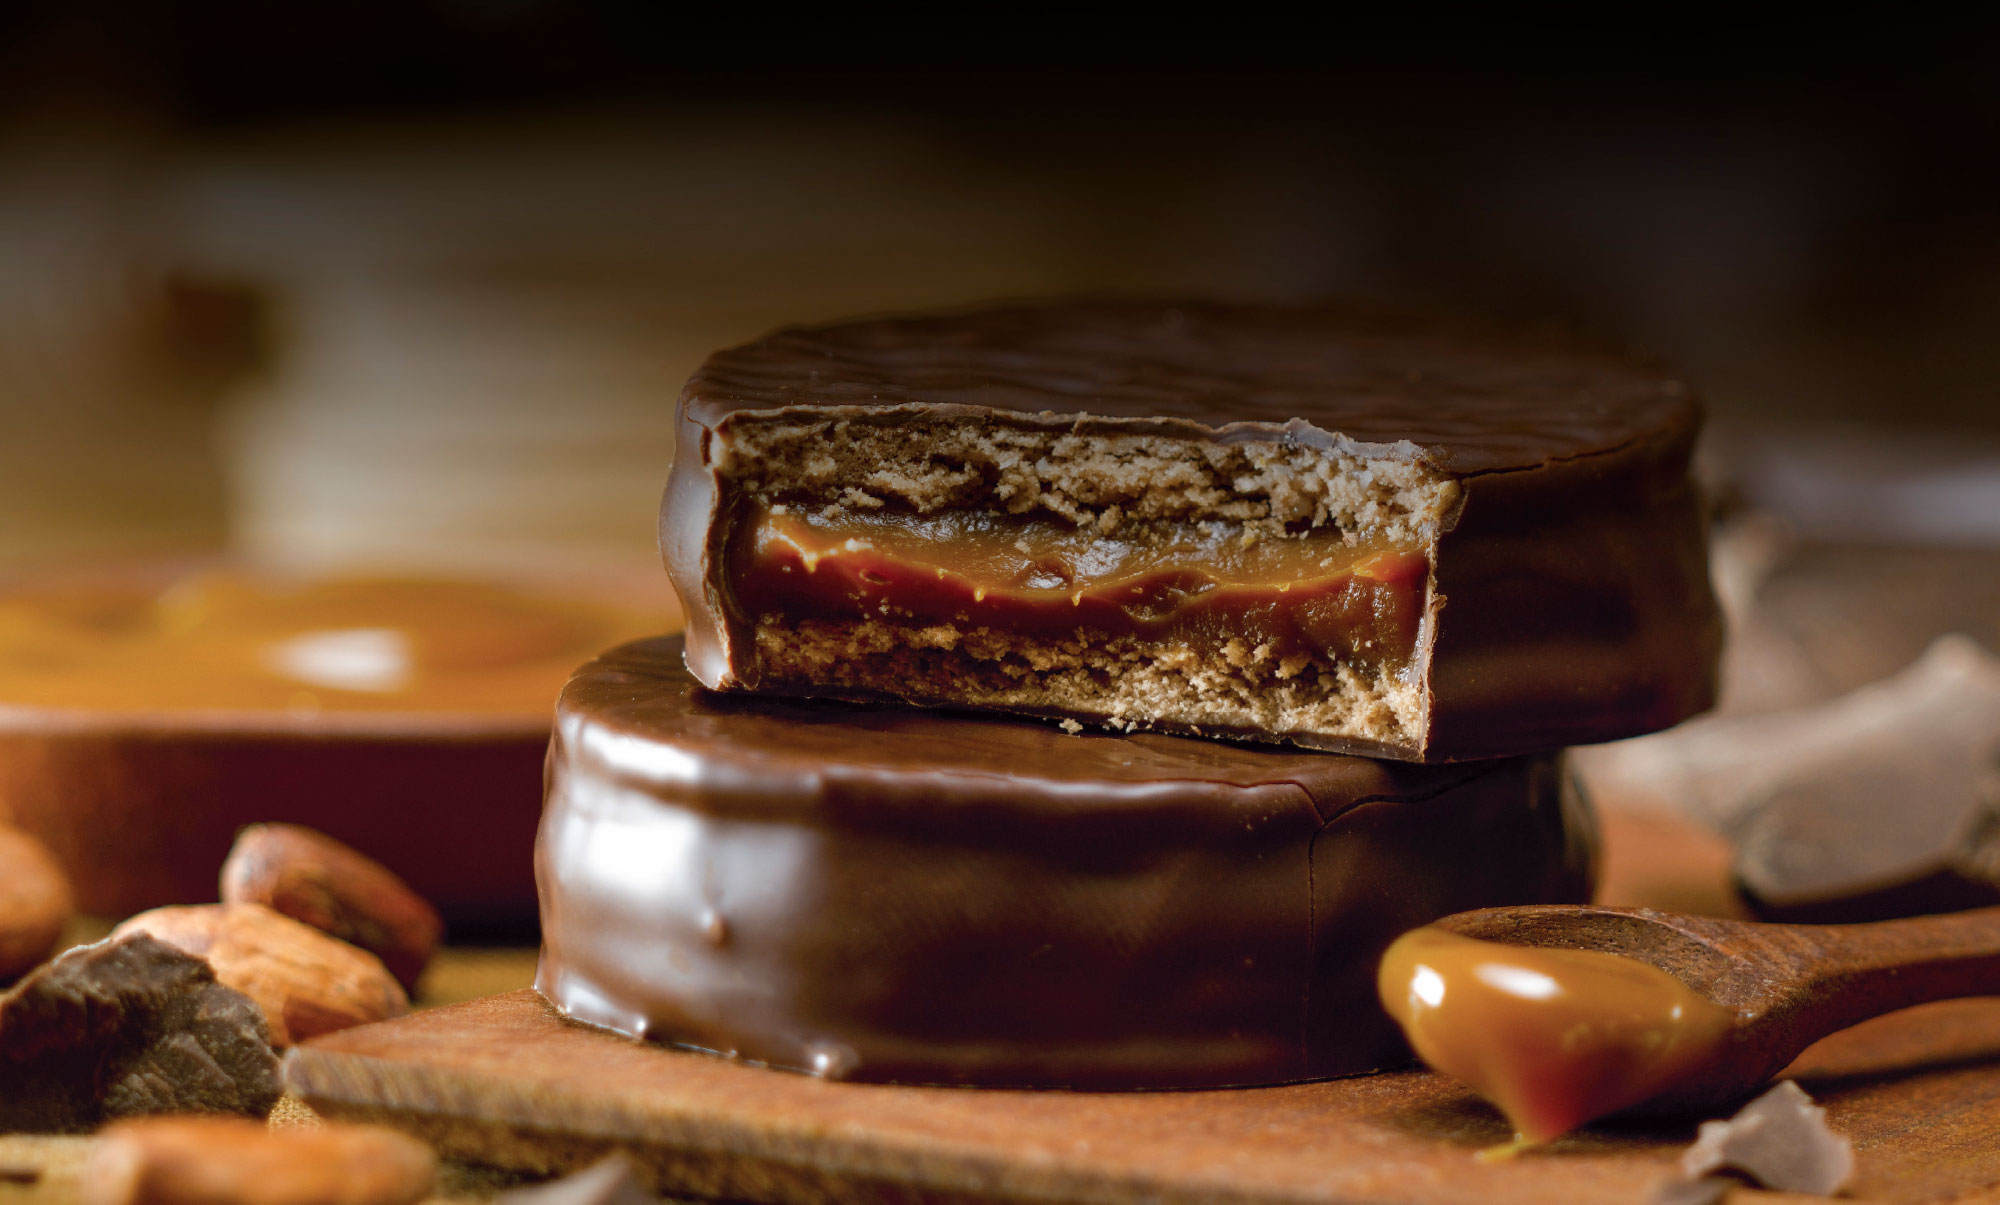
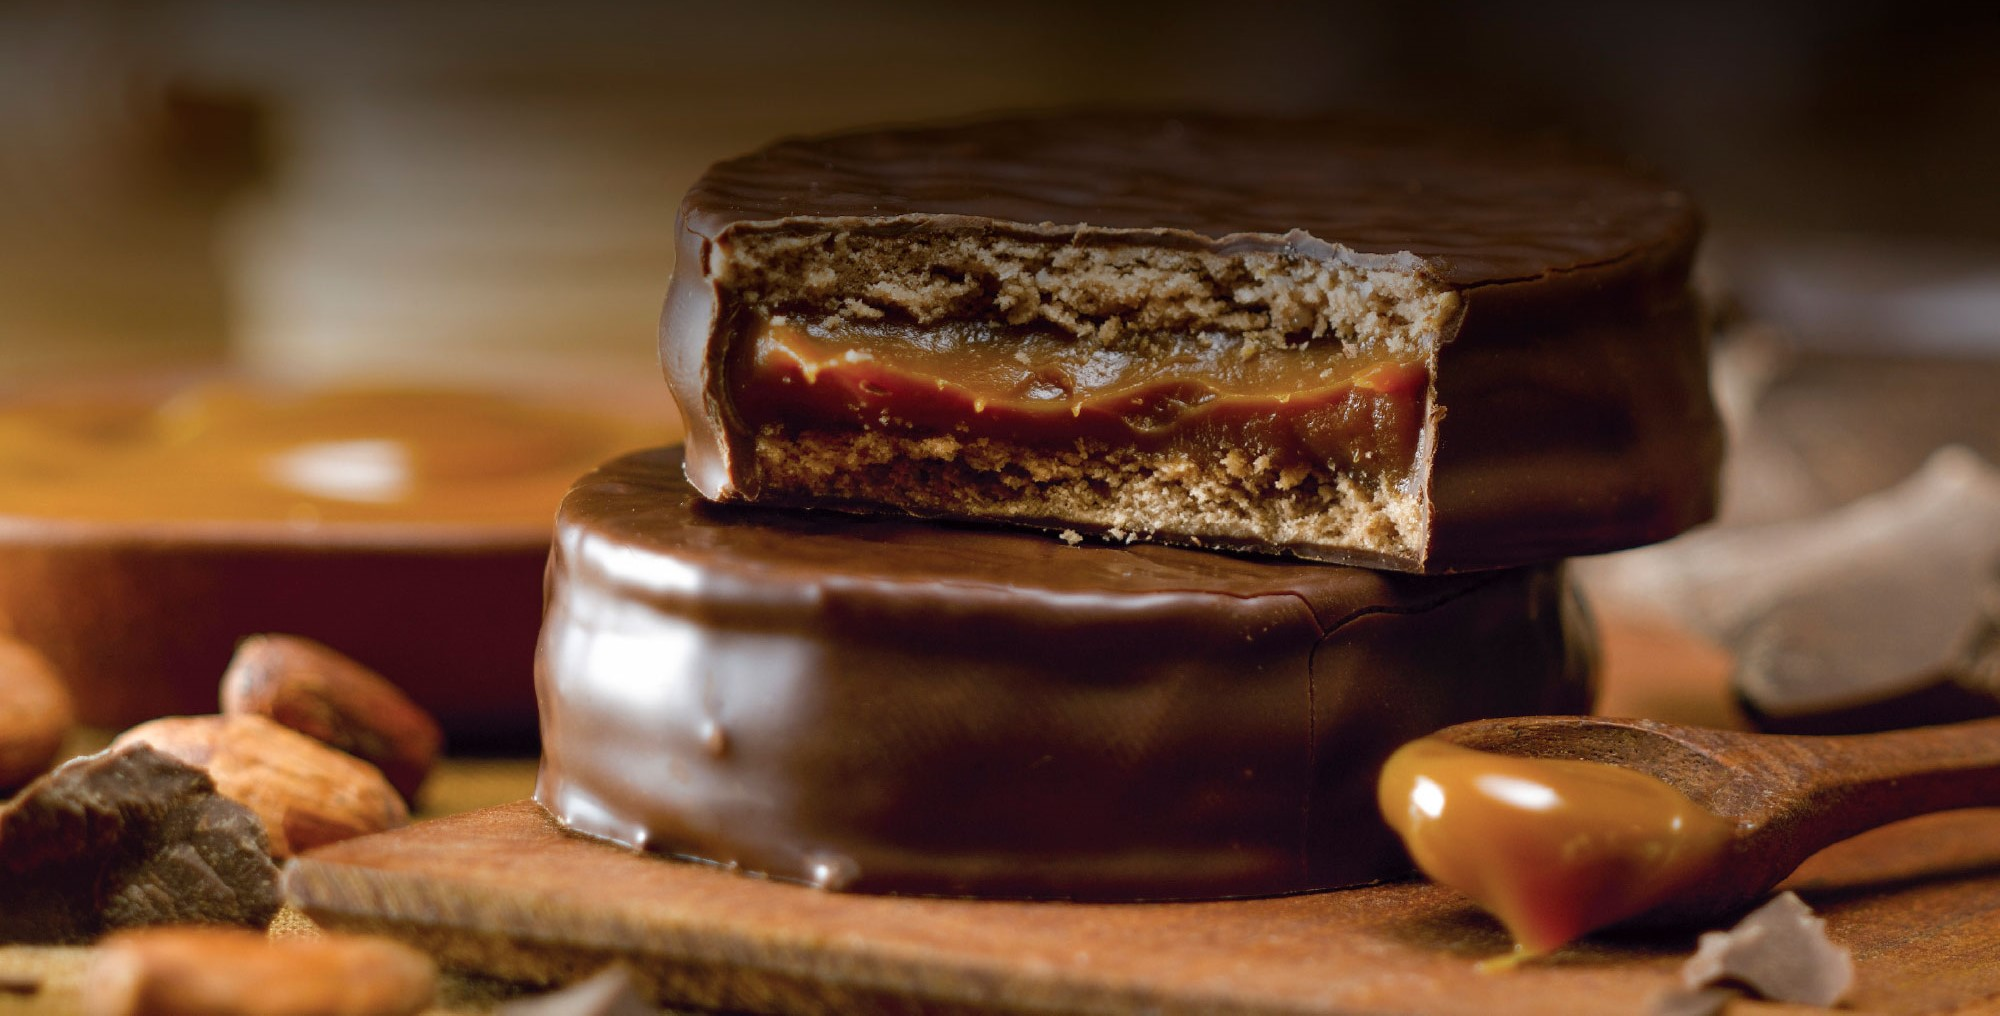
Cambie el height de la fotoheader por un 85vh

diff --git a/index.html b/index.html
@@ -205,10 +205,10 @@
         </ul>
         <div class="redes">
           <div class="logos-redes">
-            <a href="https://www.facebook.com/" class="fb" title="Acceso directo a nuestra cuenta de Facebook"><img src="image/Facebook.png" alt="Logo de Facebook"></a>
+            <a href="https://www.facebook.com/" target="blank" class="fb" title="Acceso directo a nuestra cuenta de Facebook"><img src="image/Facebook.png" alt="Logo de Facebook"></a>
           </div>
           <div class="logos-redes">
-            <a href="https://www.instagram.com/" class="ig" title="Acceso directo a nuestra cuenta de Instagram"><img src="image/Instagram.jpg" alt="Logo de instagram"></a>
+            <a href="https://www.instagram.com/" target="blank" class="ig" title="Acceso directo a nuestra cuenta de Instagram"><img src="image/Instagram.jpg" alt="Logo de instagram"></a>
           </div>
         </div>
       </div>

diff --git a/scss/components/_header.scss b/scss/components/_header.scss
@@ -112,8 +112,8 @@
 
 /*foto de fondo*/ 
 .foto-header {
-    width: auto;
-    height: 90vh;
+    width: 100%;
+    height: 85vh;
     background-image: url(../image/fotoheader.jpg);
     background-repeat: no-repeat;
     background-size: cover;

diff --git a/css/style.css b/css/style.css
@@ -142,8 +142,8 @@ body {
 
 /*foto de fondo*/
 .foto-header {
-  width: auto;
-  height: 90vh;
+  width: 100%;
+  height: 85vh;
   background-image: url(../image/fotoheader.jpg);
   background-repeat: no-repeat;
   background-size: cover;
